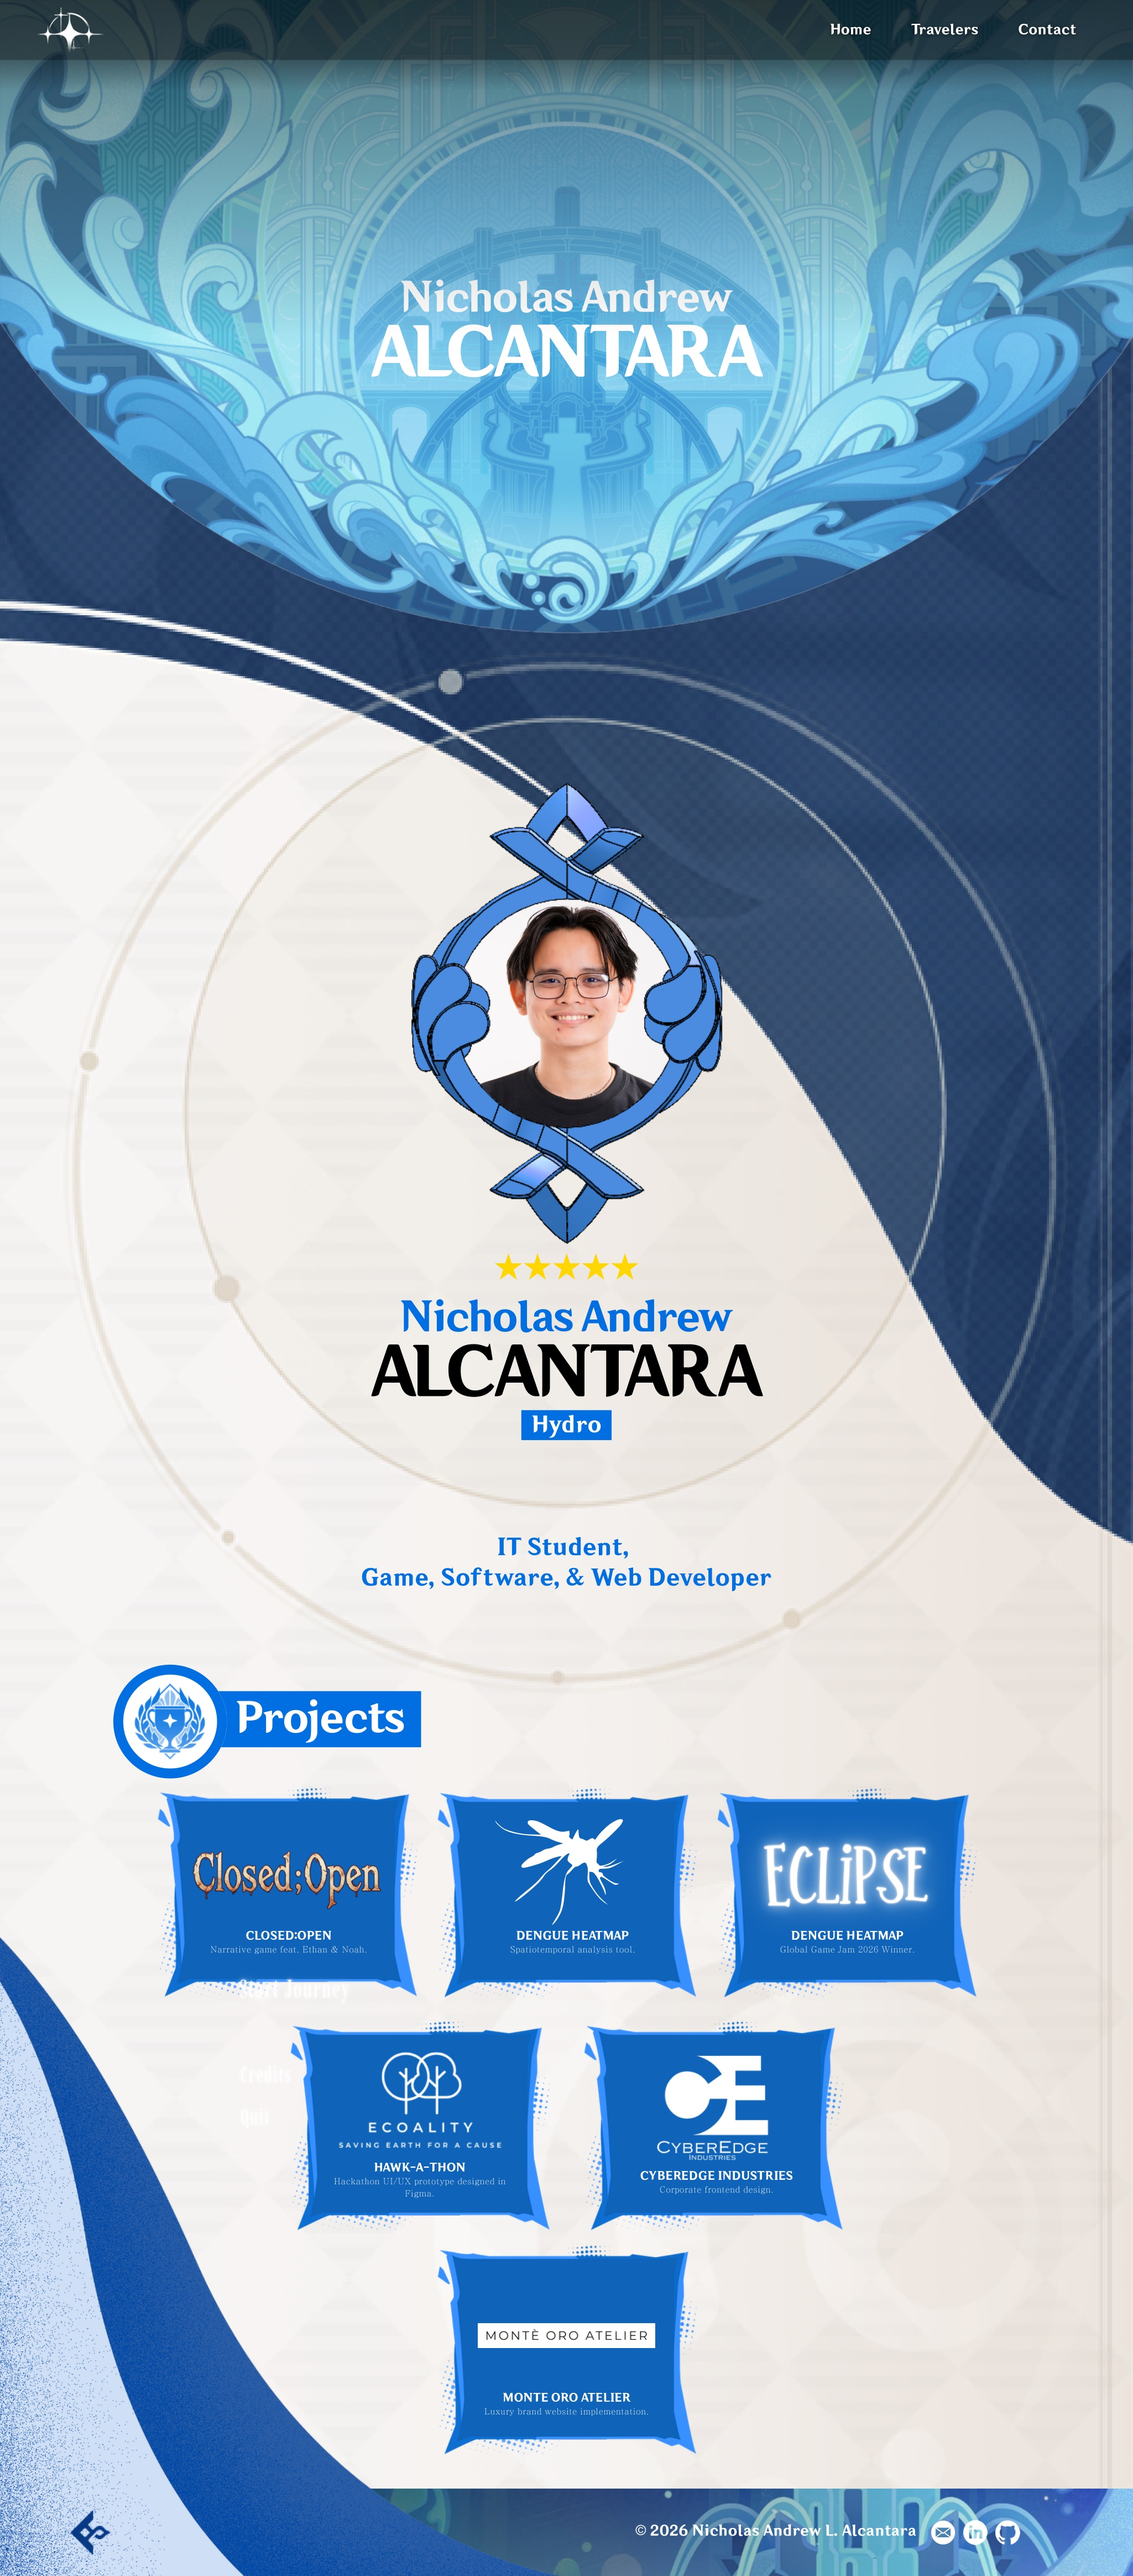
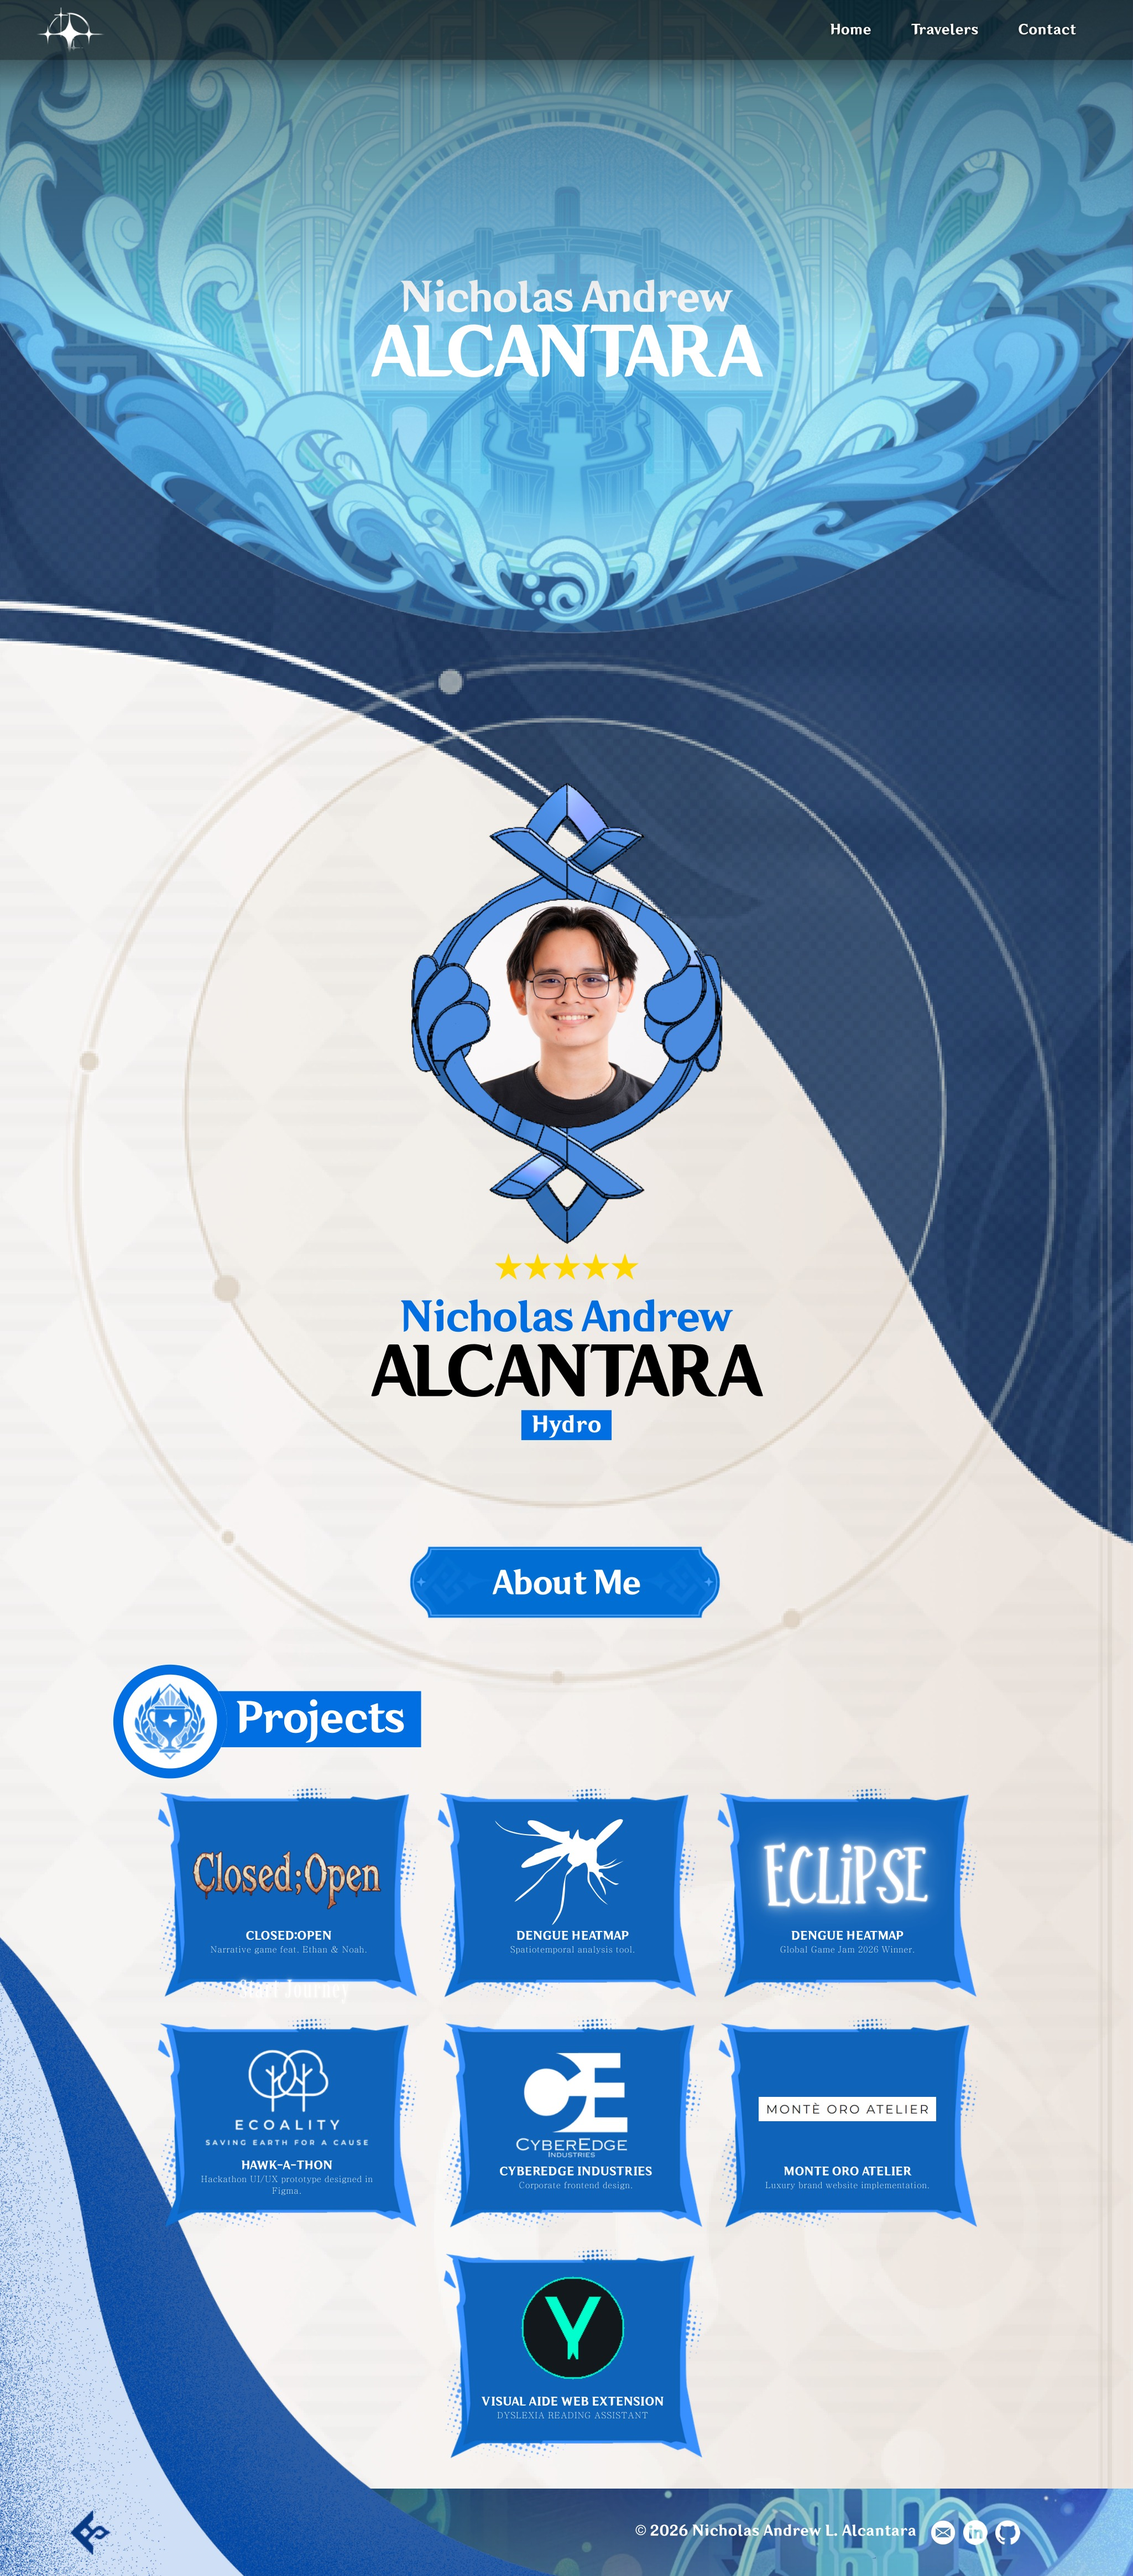
Update Nicholas portfolio mockup with About Me button and Visual Aide project hotspot

Changed region(s): [[0.1249, 0.7786, 0.8746, 0.9654], [0.3436, 0.5917, 0.6559, 0.654]]

diff --git a/nicholas.html b/nicholas.html
@@ -40,13 +40,16 @@
       <img src="./assets/nicholas/portfolio_mockup_hd.png" alt="Nicholas Andrew Alcantara • Fontaine Hydro Portfolio" class="portfolio-mockup-image" loading="eager" fetchpriority="high">
     </picture>
 
-    <!-- ==================== 1. INTERACTIVE PROJECT CARDS ==================== -->
+    <!-- ==================== 1. ABOUT ME & INTERACTIVE PROJECT CARDS ==================== -->
+    <button type="button" class="interactive-hotspot hotspot-about-me" id="hotspot-about-me" data-project="about-me" aria-label="View About Nicholas Andrew Alcantara Details" title="About Me • Nicholas Andrew Alcantara"></button>
+
     <button type="button" class="interactive-hotspot hotspot-card hotspot-card-closed-open" data-project="closed-open" aria-label="View Closed;Open Project Details" title="Closed;Open • Narrative Game"></button>
     <button type="button" class="interactive-hotspot hotspot-card hotspot-card-dengue-heatmap" data-project="dengue-heatmap" aria-label="View Dengue Heatmap Project Details" title="Dengue Heatmap • Spatiotemporal Analysis Tool"></button>
     <button type="button" class="interactive-hotspot hotspot-card hotspot-card-eclipse" data-project="eclipse" aria-label="View Eclipse Project Details" title="Eclipse • Global Game Jam 2026 Winner"></button>
     <button type="button" class="interactive-hotspot hotspot-card hotspot-card-ecoality" data-project="ecoality" aria-label="View Ecoality Project Details" title="Ecoality • Hawk-A-Thon Prototype"></button>
     <button type="button" class="interactive-hotspot hotspot-card hotspot-card-cyberedge" data-project="cyberedge" aria-label="View CyberEdge Industries Project Details" title="CyberEdge Industries • Corporate Frontend"></button>
     <button type="button" class="interactive-hotspot hotspot-card hotspot-card-monte-oro" data-project="monte-oro" aria-label="View Monté Oro Atelier Project Details" title="Monté Oro Atelier • Luxury Brand"></button>
+    <button type="button" class="interactive-hotspot hotspot-card hotspot-card-visual-aide" data-project="visual-aide" aria-label="View Visual Aide Web Extension Details" title="Visual Aide Web Extension • Dyslexia Reading Assistant"></button>
 
     <!-- ==================== 2. INTERACTIVE FOOTER HOTSPOTS ==================== -->
     <!-- Back Button (Bottom-Left Stylized Arrow) -->
@@ -127,6 +130,20 @@
         img: './assets/nicholas/card_monte_oro.png',
         desc: 'An elegant bespoke digital atelier crafted for high-end artisanal craftsmanship and luxury timepieces. Built with fluid micro-interactions, editorial typography, and high-performance product storytelling.',
         tech: ['Front-End Architecture', 'GSAP Animations', 'E-Commerce UX', 'Performance Tuning', 'Typography']
+      },
+      'visual-aide': {
+        title: 'Visual Aide Web Extension',
+        tag: 'VISUAL AIDE WEB EXTENSION • Dyslexia reading assistant.',
+        img: './assets/nicholas/card_visual_aide.png',
+        desc: 'An accessibility-focused browser extension engineered to enhance web reading comprehension for individuals with dyslexia. Features OpenDyslexic typography switching, custom contrast overlays, bionic reading mode, and integrated text-to-speech comprehension tools.',
+        tech: ['JavaScript', 'Chrome Extension API', 'Accessibility (a11y)', 'UI/UX Design', 'Text-to-Speech']
+      },
+      'about-me': {
+        title: 'Nicholas Andrew Alcantara',
+        tag: 'ARCHON\'S PROFILE • STRATEGIC COORDINATOR',
+        img: './assets/nicholas/portrait_hydro.png',
+        desc: 'The strategic anchor of Group 4. Specializing in strategic coordination, comprehensive project timelines, and fluid adaptability through challenging development phases. Bridges user experience design with high-performance front-end architecture, delivering polished digital interactions inspired by the Fontaine Hydro aesthetic.',
+        tech: ['Strategic Coordination', 'Front-End Architecture', 'UI/UX Design', 'Agile Leadership', 'Systems Design', 'Interactive Media']
       }
     };
 
@@ -195,8 +212,8 @@
       document.body.style.overflow = '';
     }
 
-    // Attach click events to project cards
-    document.querySelectorAll('.hotspot-card').forEach(card => {
+    // Attach click events to project cards and about me button
+    document.querySelectorAll('.hotspot-card, .hotspot-about-me').forEach(card => {
       card.addEventListener('click', () => {
         const projId = card.getAttribute('data-project');
         openProjectModal(projId);

diff --git a/nicholas.css b/nicholas.css
@@ -212,8 +212,29 @@ body.nicholas-portfolio-body {
 }
 
 /* =======================================================
-   4. PROJECT CARD HOTSPOTS (3-2-1 STAGGERED GRID)
+   4. ABOUT ME & PROJECT CARD HOTSPOTS
    ======================================================= */
+/* About Me Hotspot Button */
+.hotspot-about-me {
+  left: 35.830%;
+  top: 59.935%;
+  width: 28.366%;
+  height: 3.150%;
+  border-radius: 36px;
+  border: 2px solid transparent;
+}
+
+.hotspot-about-me:hover {
+  border-color: rgba(100, 181, 246, 0.85);
+  background: rgba(0, 118, 222, 0.22);
+  box-shadow: 0 0 28px rgba(0, 118, 222, 0.8), 0 0 45px rgba(100, 181, 246, 0.55), inset 0 0 16px rgba(100, 181, 246, 0.4);
+  transform: translateY(-3px) scale(1.025);
+}
+
+.hotspot-about-me:active {
+  transform: scale(0.98);
+}
+
 .hotspot-card {
   border-radius: 14px;
 }
@@ -232,7 +253,7 @@ body.nicholas-portfolio-body {
 .hotspot-card-closed-open {
   left: 13.616%;
   top: 69.347%;
-  width: 23.504%;
+  width: 23.494%;
   height: 8.505%;
 }
 
@@ -248,30 +269,38 @@ body.nicholas-portfolio-body {
 .hotspot-card-eclipse {
   left: 62.997%;
   top: 69.360%;
-  width: 23.504%;
+  width: 23.494%;
   height: 8.505%;
 }
 
 /* Card 4: Ecoality */
 .hotspot-card-ecoality {
-  left: 25.320%;
-  top: 78.406%;
+  left: 13.577%;
+  top: 78.308%;
   width: 23.504%;
   height: 8.505%;
 }
 
 /* Card 5: CyberEdge Industries */
 .hotspot-card-cyberedge {
-  left: 51.205%;
-  top: 78.406%;
+  left: 38.780%;
+  top: 78.308%;
   width: 23.504%;
   height: 8.505%;
 }
 
 /* Card 6: Monté Oro Atelier */
 .hotspot-card-monte-oro {
-  left: 38.263%;
-  top: 87.105%;
+  left: 63.055%;
+  top: 78.308%;
+  width: 23.504%;
+  height: 8.505%;
+}
+
+/* Card 7: Visual Aide Web Extension */
+.hotspot-card-visual-aide {
+  left: 38.799%;
+  top: 87.255%;
   width: 23.504%;
   height: 8.505%;
 }
@@ -281,10 +310,10 @@ body.nicholas-portfolio-body {
    ======================================================= */
 /* Back Button (Bottom-Left Stylized Arrow) */
 .hotspot-back-btn {
-  left: 5.661%;
-  top: 97.251%;
-  width: 4.685%;
-  height: 2.062%;
+  left: 6.032%;
+  top: 97.431%;
+  width: 3.953%;
+  height: 1.774%;
   border-radius: 50%;
 }
 
@@ -315,26 +344,26 @@ body.nicholas-portfolio-body {
 
 /* Email Icon */
 .hotspot-footer-email {
-  left: 81.991%;
-  top: 97.723%;
-  width: 2.440%;
-  height: 1.117%;
+  left: 82.186%;
+  top: 97.848%;
+  width: 2.108%;
+  height: 0.928%;
 }
 
 /* LinkedIn Icon */
 .hotspot-footer-linkedin {
-  left: 84.919%;
-  top: 97.723%;
-  width: 2.440%;
-  height: 1.117%;
+  left: 85.027%;
+  top: 97.848%;
+  width: 2.118%;
+  height: 0.936%;
 }
 
 /* GitHub Icon */
 .hotspot-footer-github {
-  left: 87.750%;
-  top: 97.723%;
-  width: 2.440%;
-  height: 1.117%;
+  left: 87.897%;
+  top: 97.848%;
+  width: 2.118%;
+  height: 0.936%;
 }
 
 /* =======================================================
